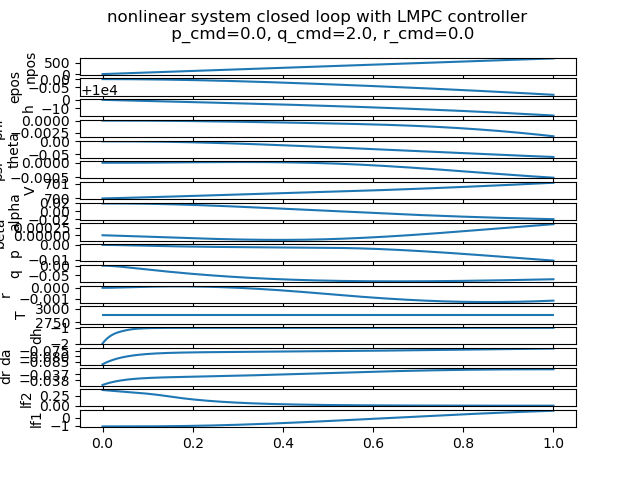
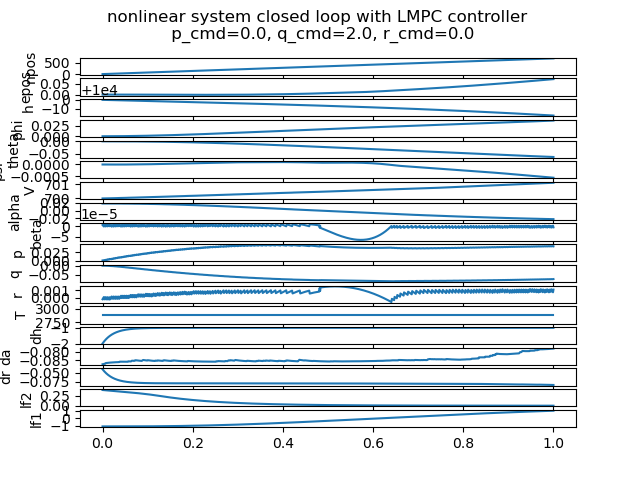
isolated python intepolation issues

diff --git a/dynamics.py b/dynamics.py
@@ -2,16 +2,17 @@ import torch
 import torch.nn as nn
 
 from parameters import x_lb, x_ub, u_lb, u_ub, pi
-from tables import c_lookup as table_C
+from tables import c_lookup
+from tables import py_lookup
 
 class Nlplant(nn.Module):
-    def __init__(self, device, dtype):
+    def __init__(self, device, dtype, lookup_type):
         super().__init__()
         self.device = device
         self.dtype = dtype
 
         self.acts = Actuators(device, dtype)
-        self.eom = EoM(device, dtype, lookup_type='C')
+        self.eom = EoM(device, dtype, lookup_type=lookup_type)
 
     def __call__(self, x, u):
         return self.forward(x, u)
@@ -246,6 +247,67 @@ class EoM(nn.Module):
         
         # In[Table Lookup]
         inp = torch.tensor([alpha, beta, el], device=self.device, dtype=self.dtype)
+
+        if self.lookup_type == 'Py':
+            # hifi_C
+            Cx = py_lookup.interp_3d(inp, 'Cx')
+            Cz = py_lookup.interp_3d(inp, 'Cz')
+            Cm = py_lookup.interp_3d(inp, 'Cm')
+            Cy = py_lookup.interp_2d(inp[0:2], 'Cy')
+            Cn = py_lookup.interp_3d(inp, 'Cn')
+            Cl = py_lookup.interp_3d(inp, 'Cl')
+       
+            # hifi_damping
+            Cxq = py_lookup.interp_1d(inp[0:1], 'CXq')
+            Cyr = py_lookup.interp_1d(inp[0:1], 'CYr')
+            Cyp = py_lookup.interp_1d(inp[0:1], 'CYp')
+            Czq = py_lookup.interp_1d(inp[0:1], 'CZq')
+            Clr = py_lookup.interp_1d(inp[0:1], 'CLr')
+            Clp = py_lookup.interp_1d(inp[0:1], 'CLp')
+            Cmq = py_lookup.interp_1d(inp[0:1], 'CMq')
+            Cnr = py_lookup.interp_1d(inp[0:1], 'CNr')
+            Cnp = py_lookup.interp_1d(inp[0:1], 'CNp')
+
+            # hifi_C_lef
+            temp = torch.cat([inp[0:2], torch.tensor([0])])
+            delta_Cx_lef = py_lookup.interp_2d(inp[0:2], 'Cx_lef') - py_lookup.interp_3d(temp, 'Cx')
+            delta_Cz_lef = py_lookup.interp_2d(inp[0:2], 'Cz_lef') - py_lookup.interp_3d(temp, 'Cz')
+            delta_Cm_lef = py_lookup.interp_2d(inp[0:2], 'Cm_lef') - py_lookup.interp_3d(temp, 'Cm')
+            delta_Cy_lef = py_lookup.interp_2d(inp[0:2], 'Cy_lef') - py_lookup.interp_2d(inp[0:2], 'Cy')
+            delta_Cn_lef = py_lookup.interp_2d(inp[0:2], 'Cn_lef') - py_lookup.interp_3d(temp, 'Cn')
+            delta_Cl_lef = py_lookup.interp_2d(inp[0:2], 'Cl_lef') - py_lookup.interp_3d(temp, 'Cl')
+
+            # hifi_damping_lef
+            delta_Cxq_lef = py_lookup.interp_1d(inp[0:1], 'delta_CXq_lef')
+            delta_Cyr_lef = py_lookup.interp_1d(inp[0:1], 'delta_CYr_lef')
+            delta_Cyp_lef = py_lookup.interp_1d(inp[0:1], 'delta_CYp_lef')
+            delta_Czq_lef = py_lookup.interp_1d(inp[0:1], 'delta_CZq_lef') # this being unused is not an error, it is as the original C was written, you can delete if you like.
+            delta_Clr_lef = py_lookup.interp_1d(inp[0:1], 'delta_CLr_lef')
+            delta_Clp_lef = py_lookup.interp_1d(inp[0:1], 'delta_CLp_lef')
+            delta_Cmq_lef = py_lookup.interp_1d(inp[0:1], 'delta_CMq_lef')
+            delta_Cnr_lef = py_lookup.interp_1d(inp[0:1], 'delta_CNr_lef')
+            delta_Cnp_lef = py_lookup.interp_1d(inp[0:1], 'delta_CNp_lef')
+
+            # hifi_rudder
+            delta_Cy_r30 = py_lookup.interp_2d(inp[0:2], 'Cy_r30') - py_lookup.interp_2d(inp[0:2], 'Cy')
+            delta_Cn_r30 = py_lookup.interp_2d(inp[0:2], 'Cn_r30') - py_lookup.interp_3d(temp, 'Cn')
+            delta_Cl_r30 = py_lookup.interp_2d(inp[0:2], 'Cl_r30') - py_lookup.interp_3d(temp, 'Cl')
+
+            # hifi_ailerons
+            delta_Cy_a20     = py_lookup.interp_2d(inp[0:2], 'Cy_a20') - py_lookup.interp_2d(inp[0:2], 'Cy')
+            delta_Cy_a20_lef = py_lookup.interp_2d(inp[0:2], 'Cy_a20_lef') - py_lookup.interp_2d(inp[0:2], 'Cy_lef')
+            delta_Cn_a20     = py_lookup.interp_2d(inp[0:2], 'Cn_a20') - py_lookup.interp_3d(temp, 'Cn')
+            delta_Cn_a20_lef = py_lookup.interp_2d(inp[0:2], 'Cn_a20_lef') - py_lookup.interp_2d(inp[0:2], 'Cn_lef')
+            delta_Cl_a20     = py_lookup.interp_2d(inp[0:2], 'Cl_a20') - py_lookup.interp_3d(temp, 'Cl')
+            delta_Cl_a20_lef = py_lookup.interp_2d(inp[0:2], 'Cl_a20_lef') - py_lookup.interp_2d(inp[0:2], 'Cl_lef')
+            
+            # hifi_other_coeffs
+            delta_Cnbeta = py_lookup.interp_1d(inp[0:1], 'delta_CNbeta')
+            delta_Clbeta = py_lookup.interp_1d(inp[0:1], 'delta_CLbeta')
+            delta_Cm = py_lookup.interp_1d(inp[0:1], 'delta_Cm')
+            eta_el = py_lookup.interp_1d(inp[2:3], 'eta_el')
+            delta_Cm_ds = 0.
+
         
         if self.lookup_type == 'NN':
             
@@ -312,29 +374,29 @@ class EoM(nn.Module):
             
             
             # pass alpha, beta, el
-            Cx, Cz, Cm, Cy, Cn, Cl = table_C.hifi_C(inp)
+            Cx, Cz, Cm, Cy, Cn, Cl = c_lookup.hifi_C(inp)
             
             # pass alpha
-            Cxq, Cyr, Cyp, Czq, Clr, Clp, Cmq, Cnr, Cnp = table_C.hifi_damping(inp[0:1])
+            Cxq, Cyr, Cyp, Czq, Clr, Clp, Cmq, Cnr, Cnp = c_lookup.hifi_damping(inp[0:1])
             
             # pass alpha, beta
             delta_Cx_lef, delta_Cz_lef, delta_Cm_lef, delta_Cy_lef, delta_Cn_lef, \
-                delta_Cl_lef = table_C.hifi_C_lef(inp[0:2])
+                delta_Cl_lef = c_lookup.hifi_C_lef(inp[0:2])
             
             # pass alpha
             delta_Cxq_lef, delta_Cyr_lef, delta_Cyp_lef, delta_Czq_lef, \
                 delta_Clr_lef, delta_Clp_lef, delta_Cmq_lef, delta_Cnr_lef, \
-                    delta_Cnp_lef = table_C.hifi_damping_lef(inp[0:1])
+                    delta_Cnp_lef = c_lookup.hifi_damping_lef(inp[0:1])
             
             # pass alpha, beta
-            delta_Cy_r30, delta_Cn_r30, delta_Cl_r30 = table_C.hifi_rudder(inp[0:2])
+            delta_Cy_r30, delta_Cn_r30, delta_Cl_r30 = c_lookup.hifi_rudder(inp[0:2])
             
             # pass alpha, beta
             delta_Cy_a20, delta_Cy_a20_lef, delta_Cn_a20, delta_Cn_a20_lef, \
-                delta_Cl_a20, delta_Cl_a20_lef = table_C.hifi_ailerons(inp[0:2])
+                delta_Cl_a20, delta_Cl_a20_lef = c_lookup.hifi_ailerons(inp[0:2])
             
             # pass alpha, el
-            delta_Cnbeta, delta_Clbeta, delta_Cm, eta_el, delta_Cm_ds = table_C.hifi_other_coeffs(inp[::2])
+            delta_Cnbeta, delta_Clbeta, delta_Cm, eta_el, delta_Cm_ds = c_lookup.hifi_other_coeffs(inp[::2])
         
               
         # In[compute Cx_tot, Cz_tot, Cm_tot, Cy_tot, Cn_tot, and Cl_tot]

diff --git a/validate_tables.py b/validate_tables.py
@@ -119,5 +119,102 @@ f2c = {value: key for key, value in c2f.items()}
 ########## testing py_tables
 Cx, Cz, Cm, Cy, Cn, Cl = py_lookup.hifi_C()
 
+
+inp = torch.tensor([-2.5, 1.0, 1.0])
+
+
+
+# pass alpha, beta, el
+Cx, Cz, Cm, Cy, Cn, Cl = c_lookup.hifi_C(inp)
+
+# pass alpha
+Cxq, Cyr, Cyp, Czq, Clr, Clp, Cmq, Cnr, Cnp = c_lookup.hifi_damping(inp[0:1])
+
+# pass alpha, beta
+delta_Cx_lef, delta_Cz_lef, delta_Cm_lef, delta_Cy_lef, delta_Cn_lef, \
+    delta_Cl_lef = c_lookup.hifi_C_lef(inp[0:2])
+
+# pass alpha
+delta_Cxq_lef, delta_Cyr_lef, delta_Cyp_lef, delta_Czq_lef, \
+    delta_Clr_lef, delta_Clp_lef, delta_Cmq_lef, delta_Cnr_lef, \
+        delta_Cnp_lef = c_lookup.hifi_damping_lef(inp[0:1])
+
+# pass alpha, beta
+delta_Cy_r30, delta_Cn_r30, delta_Cl_r30 = c_lookup.hifi_rudder(inp[0:2])
+
+# pass alpha, beta
+delta_Cy_a20, delta_Cy_a20_lef, delta_Cn_a20, delta_Cn_a20_lef, \
+    delta_Cl_a20, delta_Cl_a20_lef = c_lookup.hifi_ailerons(inp[0:2])
+
+# pass alpha, el
+delta_Cnbeta, delta_Clbeta, delta_Cm, eta_el, delta_Cm_ds = c_lookup.hifi_other_coeffs(inp[::2])
+
+# hifi_C
+# GOOD
+diff_Cx = py_lookup.interp_3d(inp, 'Cx') - Cx
+diff_Cz = py_lookup.interp_3d(inp, 'Cz') - Cz
+diff_Cm = py_lookup.interp_3d(inp, 'Cm') - Cm
+diff_Cy = py_lookup.interp_2d(inp[0:2], 'Cy') - Cy
+diff_Cn = py_lookup.interp_3d(inp, 'Cn') - Cn
+diff_Cl = py_lookup.interp_3d(inp, 'Cl') - Cl
+
+# hifi_damping
+# GOOD
+diff_Cxq = py_lookup.interp_1d(inp[0:1], 'CXq') - Cxq
+diff_Cyr = py_lookup.interp_1d(inp[0:1], 'CYr') - Cyr
+diff_Cyp = py_lookup.interp_1d(inp[0:1], 'CYp') - Cyp
+diff_Czq = py_lookup.interp_1d(inp[0:1], 'CZq') - Czq
+diff_Clr = py_lookup.interp_1d(inp[0:1], 'CLr') - Clr
+diff_Clp = py_lookup.interp_1d(inp[0:1], 'CLp') - Clp
+diff_Cmq = py_lookup.interp_1d(inp[0:1], 'CMq') - Cmq
+diff_Cnr = py_lookup.interp_1d(inp[0:1], 'CNr') - Cnr
+diff_Cnp = py_lookup.interp_1d(inp[0:1], 'CNp') - Cnp
+
+# hifi_C_lef
+# GOOD
+temp = torch.cat([inp[0:2], torch.tensor([0])])
+diff_delta_Cx_lef = py_lookup.interp_2d(inp[0:2], 'Cx_lef') - py_lookup.interp_3d(temp, 'Cx') - delta_Cx_lef
+diff_delta_Cz_lef = py_lookup.interp_2d(inp[0:2], 'Cz_lef') - py_lookup.interp_3d(temp, 'Cz') - delta_Cz_lef
+diff_delta_Cm_lef = py_lookup.interp_2d(inp[0:2], 'Cm_lef') - py_lookup.interp_3d(temp, 'Cm') - delta_Cm_lef
+diff_delta_Cy_lef = py_lookup.interp_2d(inp[0:2], 'Cy_lef') - py_lookup.interp_2d(inp[0:2], 'Cy') - delta_Cy_lef
+diff_delta_Cn_lef = py_lookup.interp_2d(inp[0:2], 'Cn_lef') - py_lookup.interp_3d(temp, 'Cn') - delta_Cn_lef
+diff_delta_Cl_lef = py_lookup.interp_2d(inp[0:2], 'Cl_lef') - py_lookup.interp_3d(temp, 'Cl') - delta_Cl_lef
+
+# hifi_damping_lef
+# GOOD
+diff_delta_Cxq_lef = py_lookup.interp_1d(inp[0:1], 'delta_CXq_lef') - delta_Cxq_lef
+diff_delta_Cyr_lef = py_lookup.interp_1d(inp[0:1], 'delta_CYr_lef') - delta_Cyr_lef
+diff_delta_Cyp_lef = py_lookup.interp_1d(inp[0:1], 'delta_CYp_lef') - delta_Cyp_lef
+diff_delta_Czq_lef = py_lookup.interp_1d(inp[0:1], 'delta_CZq_lef') - delta_Czq_lef # this being unused is not an error, it is as the original C was written, you can delete if you like.
+diff_delta_Clr_lef = py_lookup.interp_1d(inp[0:1], 'delta_CLr_lef') - delta_Clr_lef
+diff_delta_Clp_lef = py_lookup.interp_1d(inp[0:1], 'delta_CLp_lef') - delta_Clp_lef
+diff_delta_Cmq_lef = py_lookup.interp_1d(inp[0:1], 'delta_CMq_lef') - delta_Cmq_lef
+diff_delta_Cnr_lef = py_lookup.interp_1d(inp[0:1], 'delta_CNr_lef') - delta_Cnr_lef
+diff_delta_Cnp_lef = py_lookup.interp_1d(inp[0:1], 'delta_CNp_lef') - delta_Cnp_lef
+
+# hifi_rudder
+# GOOD
+diff_delta_Cy_r30 = py_lookup.interp_2d(inp[0:2], 'Cy_r30') - py_lookup.interp_2d(inp[0:2], 'Cy') - delta_Cy_r30
+diff_delta_Cn_r30 = py_lookup.interp_2d(inp[0:2], 'Cn_r30') - py_lookup.interp_3d(temp, 'Cn') - delta_Cn_r30
+diff_delta_Cl_r30 = py_lookup.interp_2d(inp[0:2], 'Cl_r30') - py_lookup.interp_3d(temp, 'Cl') - delta_Cl_r30
+
+# hifi_ailerons
+# DISCREPANCIES HERE
+diff_delta_Cy_a20     = py_lookup.interp_2d(inp[0:2], 'Cy_a20') - py_lookup.interp_2d(inp[0:2], 'Cy') - delta_Cy_a20
+diff_delta_Cy_a20_lef = py_lookup.interp_2d(inp[0:2], 'Cy_a20_lef') - py_lookup.interp_2d(inp[0:2], 'Cy_lef') - delta_Cy_a20_lef # discrepancies
+diff_delta_Cn_a20     = py_lookup.interp_2d(inp[0:2], 'Cn_a20') - py_lookup.interp_3d(temp, 'Cn') - delta_Cn_a20
+diff_delta_Cn_a20_lef = py_lookup.interp_2d(inp[0:2], 'Cn_a20_lef') - py_lookup.interp_2d(inp[0:2], 'Cn_lef') - delta_Cn_a20_lef # discrepancies
+diff_delta_Cl_a20     = py_lookup.interp_2d(inp[0:2], 'Cl_a20') - py_lookup.interp_3d(temp, 'Cl') - delta_Cl_a20
+diff_delta_Cl_a20_lef = py_lookup.interp_2d(inp[0:2], 'Cl_a20_lef') - py_lookup.interp_2d(inp[0:2], 'Cl_lef') - delta_Cl_a20_lef # discrepancies
+
+# hifi_other_coeffs
+# GOOD
+diff_delta_Cnbeta = py_lookup.interp_1d(inp[0:1], 'delta_CNbeta') - delta_Cnbeta
+diff_delta_Clbeta = py_lookup.interp_1d(inp[0:1], 'delta_CLbeta') - delta_Clbeta
+diff_delta_Cm = py_lookup.interp_1d(inp[0:1], 'delta_Cm') - delta_Cm
+diff_eta_el = py_lookup.interp_1d(inp[2:3], 'eta_el') - eta_el
+diff_delta_Cm_ds = 0.
+
+
 import pdb
 pdb.set_trace()

diff --git a/tables.py b/tables.py
@@ -229,7 +229,6 @@ class Py_parse():
         line = [float(i) for i in temp]
         return line
 
-
 py_parse = Py_parse()
 
 class Py_lookup():
@@ -392,7 +391,6 @@ class Py_lookup():
         Q10 = self.parse.tables[c2f[coeff]][x1_idx, y0_idx].to(torch.float32)
         Q11 = self.parse.tables[c2f[coeff]][x1_idx, y1_idx].to(torch.float32)
 
-        ### WARNING, this Q01, Q10 ordering is a GUESS its one of two possibilities
         C = 1/((x1 - x0)*(y1 - y0)) * torch.tensor([[x1 - x, x - x0]]) @ torch.tensor([[Q00, Q01],[Q10, Q11]]) @ torch.tensor([[y1 - y],[y - y0]])
 
         return C
@@ -451,6 +449,7 @@ py_lookup = Py_lookup()
 
 
 if __name__ == "__main__":
+    point = torch.tensor([-2.5, 1.0, 1.0])
     py_lookup.get_bounds_3d(torch.tensor([0.,0.1,0.1]), 'Cx')
 
     py_lookup.get_bounds_2d(torch.tensor([0.,0.1]), 'Cx_lef')
@@ -459,6 +458,11 @@ if __name__ == "__main__":
     CXq = py_lookup.interp_1d(torch.tensor([0.]), 'CXq')
     Cx_lef = py_lookup.interp_2d(torch.tensor([0.,0.]), 'Cx_lef')
 
-    Cx = py_lookup.interp_3d(torch.tensor([-2.5,0.,0.]), 'Cx')
+    Cx_py = py_lookup.interp_3d(point, 'Cx')
+
+    Cx, _, _, _, _, _ = c_lookup.hifi_C(point)
+
+    diff_Cx = Cx - Cx_py
+    print(diff_Cx)
     import pdb
     pdb.set_trace()

diff --git a/f16.py b/f16.py
@@ -3,7 +3,7 @@ import torch.nn as nn
 import matplotlib.pyplot as plt
 from tqdm import tqdm
 
-from parameters import x0, u0, y0, r0, C, D, dt, SSM, ISM, x_ub, x_lb, u_ub, u_lb, udot_ub, udot_lb
+from parameters import x0, u0, y0, r0, C, D, dt, SSM, ISM, x_ub, x_lb, u_ub, u_lb, udot_ub, udot_lb, ltt
 from tables import c_lookup
 from dynamics import Nlplant
 from control import Linmod, LMPC
@@ -45,7 +45,7 @@ class F16(nn.Module):
         self.n = len(self.x)
 
         # dynamics
-        self.nlplant = Nlplant(device, dtype)
+        self.nlplant = Nlplant(device, dtype, ltt)
 
         # linearisation
         self.linmod = Linmod(
@@ -176,7 +176,7 @@ f16.lmpc.calc_MC()
 ro = f16.lmpc(f16.y, f16.y*1.001)
 
 # instantiation of nlplant
-nlplant = Nlplant(device, dtype)
+nlplant = Nlplant(device, dtype, ltt)
 
 # example call of nlplant to find xdot
 nlplant(f16.x, f16.u)

diff --git a/parameters.py b/parameters.py
@@ -8,6 +8,7 @@ utterly unmaintainable
 
 # Simulation Parameters
 dt, time_start, time_end = 0.001, 0., 10.
+ltt = 'Py' # lookup table type
 
 # constants
 g = 9.81
